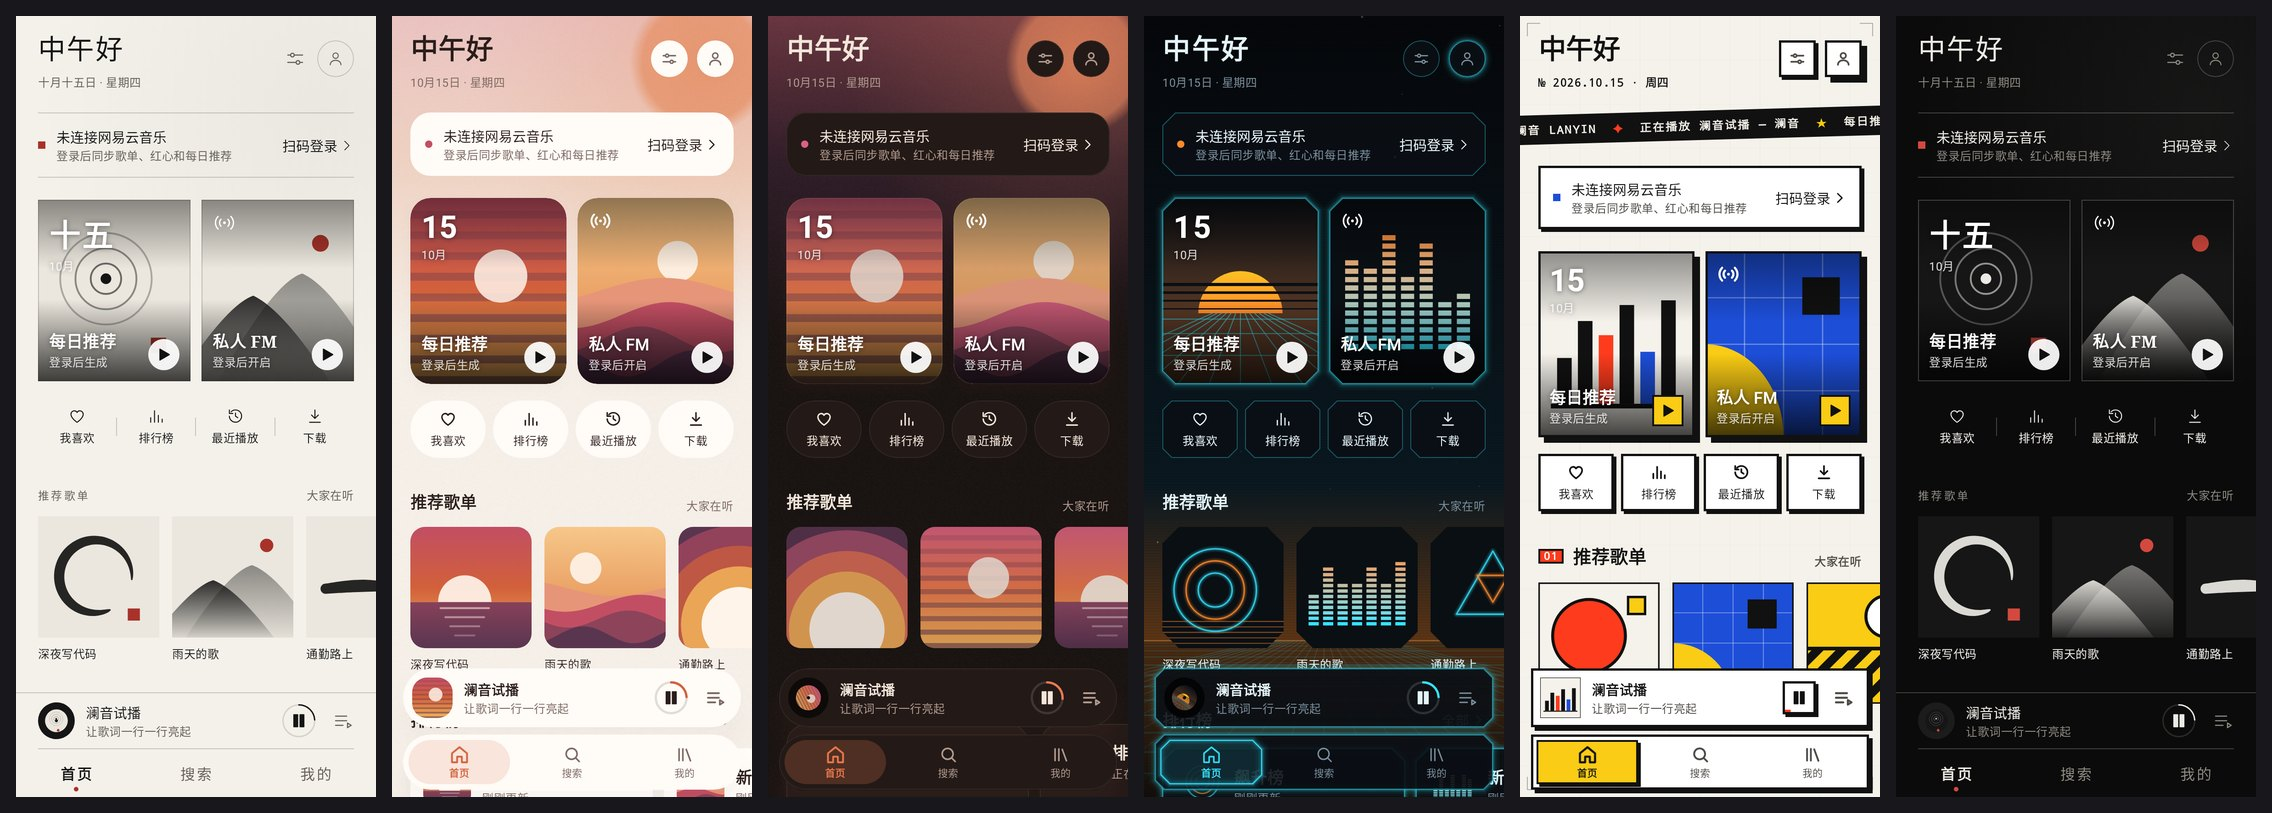
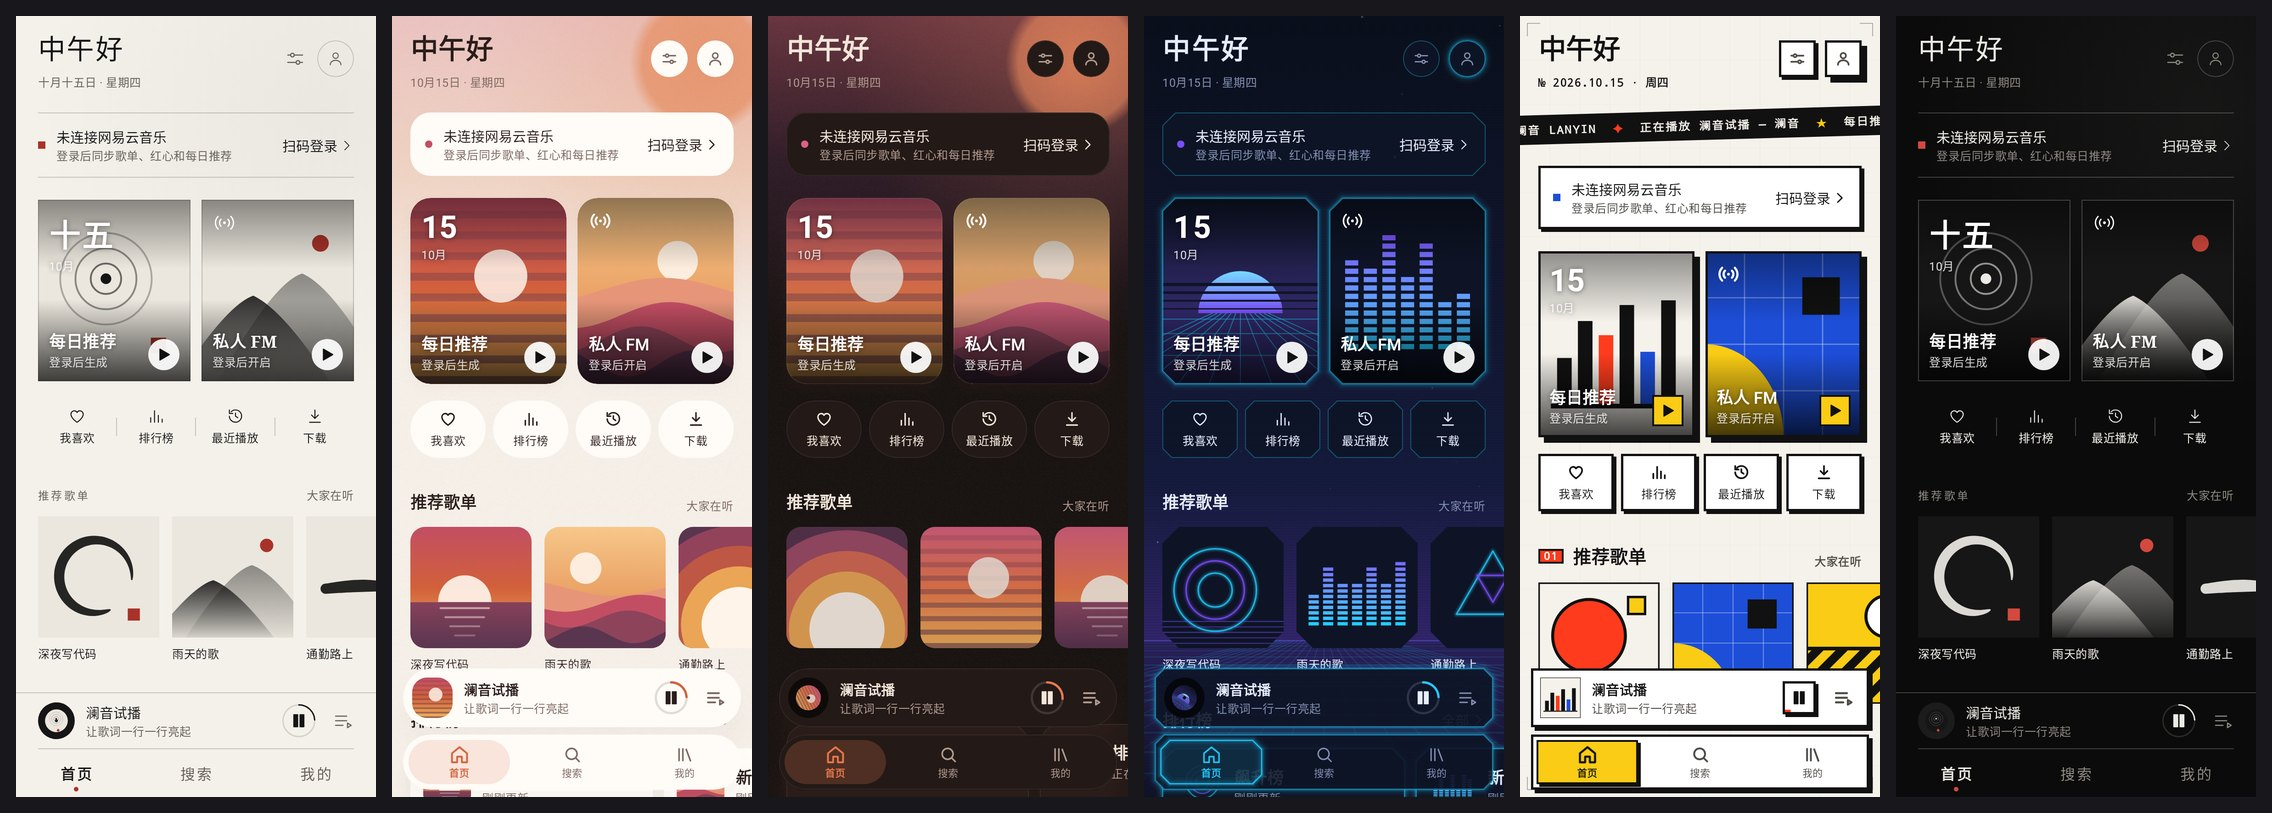
chore(music-player): M6 docs, screenshots and version 0.7.0
README covers cloud upload, cover tint, storage and the preset library; 霓's
description follows its new palette. 321 unit and screenshot tests pass.

Claude-Session: https://claude.ai/code/session_01B9QYm7eqM8MabVq3G7cMEc

Changed region(s): [[0.5, 0.2768, 0.6875, 0.984], [0.625, 0.9533, 0.6562, 0.984], [0.5, 0.1538, 0.5312, 0.1845]]

diff --git a/music-player/app/src/main/java/io/lanyin/player/ui/settings/SettingsScreen.kt b/music-player/app/src/main/java/io/lanyin/player/ui/settings/SettingsScreen.kt
@@ -191,7 +191,7 @@ fun SettingsScreen(
                     ) {
                         Column(Modifier.weight(1f)) {
                             Text("音效", style = style.type.body)
-                            Text("均衡器、低音、环绕和混响，听的时候也能在播放页调", style = style.type.caption, color = c.muted)
+                            Text("45 个预设和十段均衡器，播放页上也能调", style = style.type.caption, color = c.muted)
                         }
                         Text(settings.effects.preset.label, style = style.type.caption, color = if (settings.effects.enabled) c.accent else c.muted)
                         ThemedIcon(LineIcon.Forward, null, tint = c.muted, size = 16.dp, modifier = Modifier.padding(start = 6.dp))
@@ -229,7 +229,7 @@ fun SettingsScreen(
             item { SectionTitle("账号", Modifier.padding(start = m, end = m, top = 36.dp), index = 6) }
             item { AccountRow(account, onLogin, onLogout, Modifier.padding(start = m, end = m, top = 14.dp)) }
             item {
-                Text("澜音 0.6 · 预览版", style = style.type.caption, color = c.muted, modifier = Modifier.fillMaxWidth().padding(m))
+                Text("澜音 0.7 · 预览版", style = style.type.caption, color = c.muted, modifier = Modifier.fillMaxWidth().padding(m))
             }
         }
     }

diff --git a/music-player/app/src/main/java/io/lanyin/player/ui/settings/StorageSection.kt b/music-player/app/src/main/java/io/lanyin/player/ui/settings/StorageSection.kt
@@ -138,7 +138,7 @@ private fun StorageRow(
     val c = style.colors
     Row(Modifier.fillMaxWidth().padding(vertical = 14.dp), verticalAlignment = Alignment.CenterVertically) {
         Column(Modifier.weight(1f)) {
-            Text(title, style = style.type.body)
+            Text(title, style = style.type.body, color = c.content)
             Text(detail, style = style.type.caption, color = c.muted)
         }
         Spacer(Modifier.width(12.dp))

diff --git a/music-player/docs/PLAN.md b/music-player/docs/PLAN.md
@@ -114,7 +114,7 @@ music-player/
 - **主题**决定整个 App 的视觉语言：配色、字体、形状、卡片边缘、背景、进度条、播放按钮、歌词排版和动效手感。共四个：墨（默认）、暮、霓（只有深色）、格（只有浅色）。「澜」「樱」在 M5 去掉了。设计令牌放在 `ui/theme/Style.kt`。
 - **播放页样式**可以和任意主题组合：旋转黑胶（默认）、方形封面、沉浸歌词、复古卡带。
 - 加一个新主题：在 `Skins.kt` 加一项，在 `Style.kt` 写一份令牌和配色，在 `Backdrop.kt` / `CoverArt.kt` 各加一个绘制函数。`ContrastTest` 会检查文字对比度是否达标。
-- M6 会加上「跟随封面取色」。
+- 播放页的强调色可以跟随封面（M6），在 `ui/theme/CoverTint.kt`。
 
 ## 6. 用到的接口（首版）
 
@@ -147,7 +147,8 @@ music-player/
 | **M4 我的音乐** ✅ | 音乐云盘（分页、用量、播放、删除）；评论（推荐 / 最热 / 最新、点赞、发表和回复，播放页评论按钮带数量）；自己的歌单（新建、可设隐私、改名、删除、加歌、删歌）和收藏别人的歌单；下载（Media3 下载服务，后台继续、通知栏进度、只在 Wi-Fi 下载可选、开机后接着下，下载的歌优先从本地播，试听片段不下载）；播放记录同步到网易云（听满半分钟上报，可关）、网易云账号的跨设备最近播放、听歌排行；每首歌都有「⋯」 | 假服务器测试每个新接口的请求格式（解出 weapi / eapi 明文核对参数）；评论翻页、点赞失败回滚、发表的单元测试；歌单增删改后缓存和界面同步的测试；下载完的歌断网也能从本地播的测试；匿名对真实服务器读三种排序的评论；截图 |
 | **M5 音效与打磨** ✅ | 音效（十段均衡器、低音、环绕、混响、限幅，12 个预设，可自定义）；播放页切音质并原地重载；频谱和节拍涟漪改为分析真实音频（FFT + 鼓点检测，按扬声器位置对时）；只有逐行时间的歌词一笔点亮、换行不弹跳；去掉「澜」「樱」，「霓」换成青色 + 琥珀，「暮」重做成晚霞风；首页重排（两扇门、快捷入口、推荐歌单、排行榜前三、今日推荐） | 单元测试（FFT、滤波器增益、限幅、立体声宽度、混响尾音、频段、鼓点、原声逐字节直通、Media3 处理器）；截图；真机上听感和延迟交给你 |
 | ~~横屏播放页~~ | 歌词引擎、流动背景、逐字填色、沉浸模式已经在 M0.8–M0.11 和 M3 里做完 | |
-| **M6 打磨** | 云盘上传、跟随封面取色、缓存管理、release 签名配置 | 你在真机上完整试用 |
+| **M6 上传、取色与更多音效** ✅ | 云盘上传（检查 → NOS 直传 → 登记 → 发布，秒传、进度、取消）；跟随封面取色（主色提取 + WCAG 对比度调整 + 渐变过渡）；存储管理（可调的「边听边存」上限、图片缓存、删除全部下载）；音效扩到 45 个预设四个分组，新增空间大小、回声、压缩、温暖、窄频、底噪、8D 旋转；「霓」改成电光蓝紫 | 单元测试（上传流程逐请求核对、上传队列、取色和对比度、缓存淘汰、每个预设不削波、各新效果的听感指标）；截图 |
+| **M7 发布准备** | release 签名配置、真机反馈修正 | 你在真机上完整试用 |
 
 ## 8. 风险和限制
 
